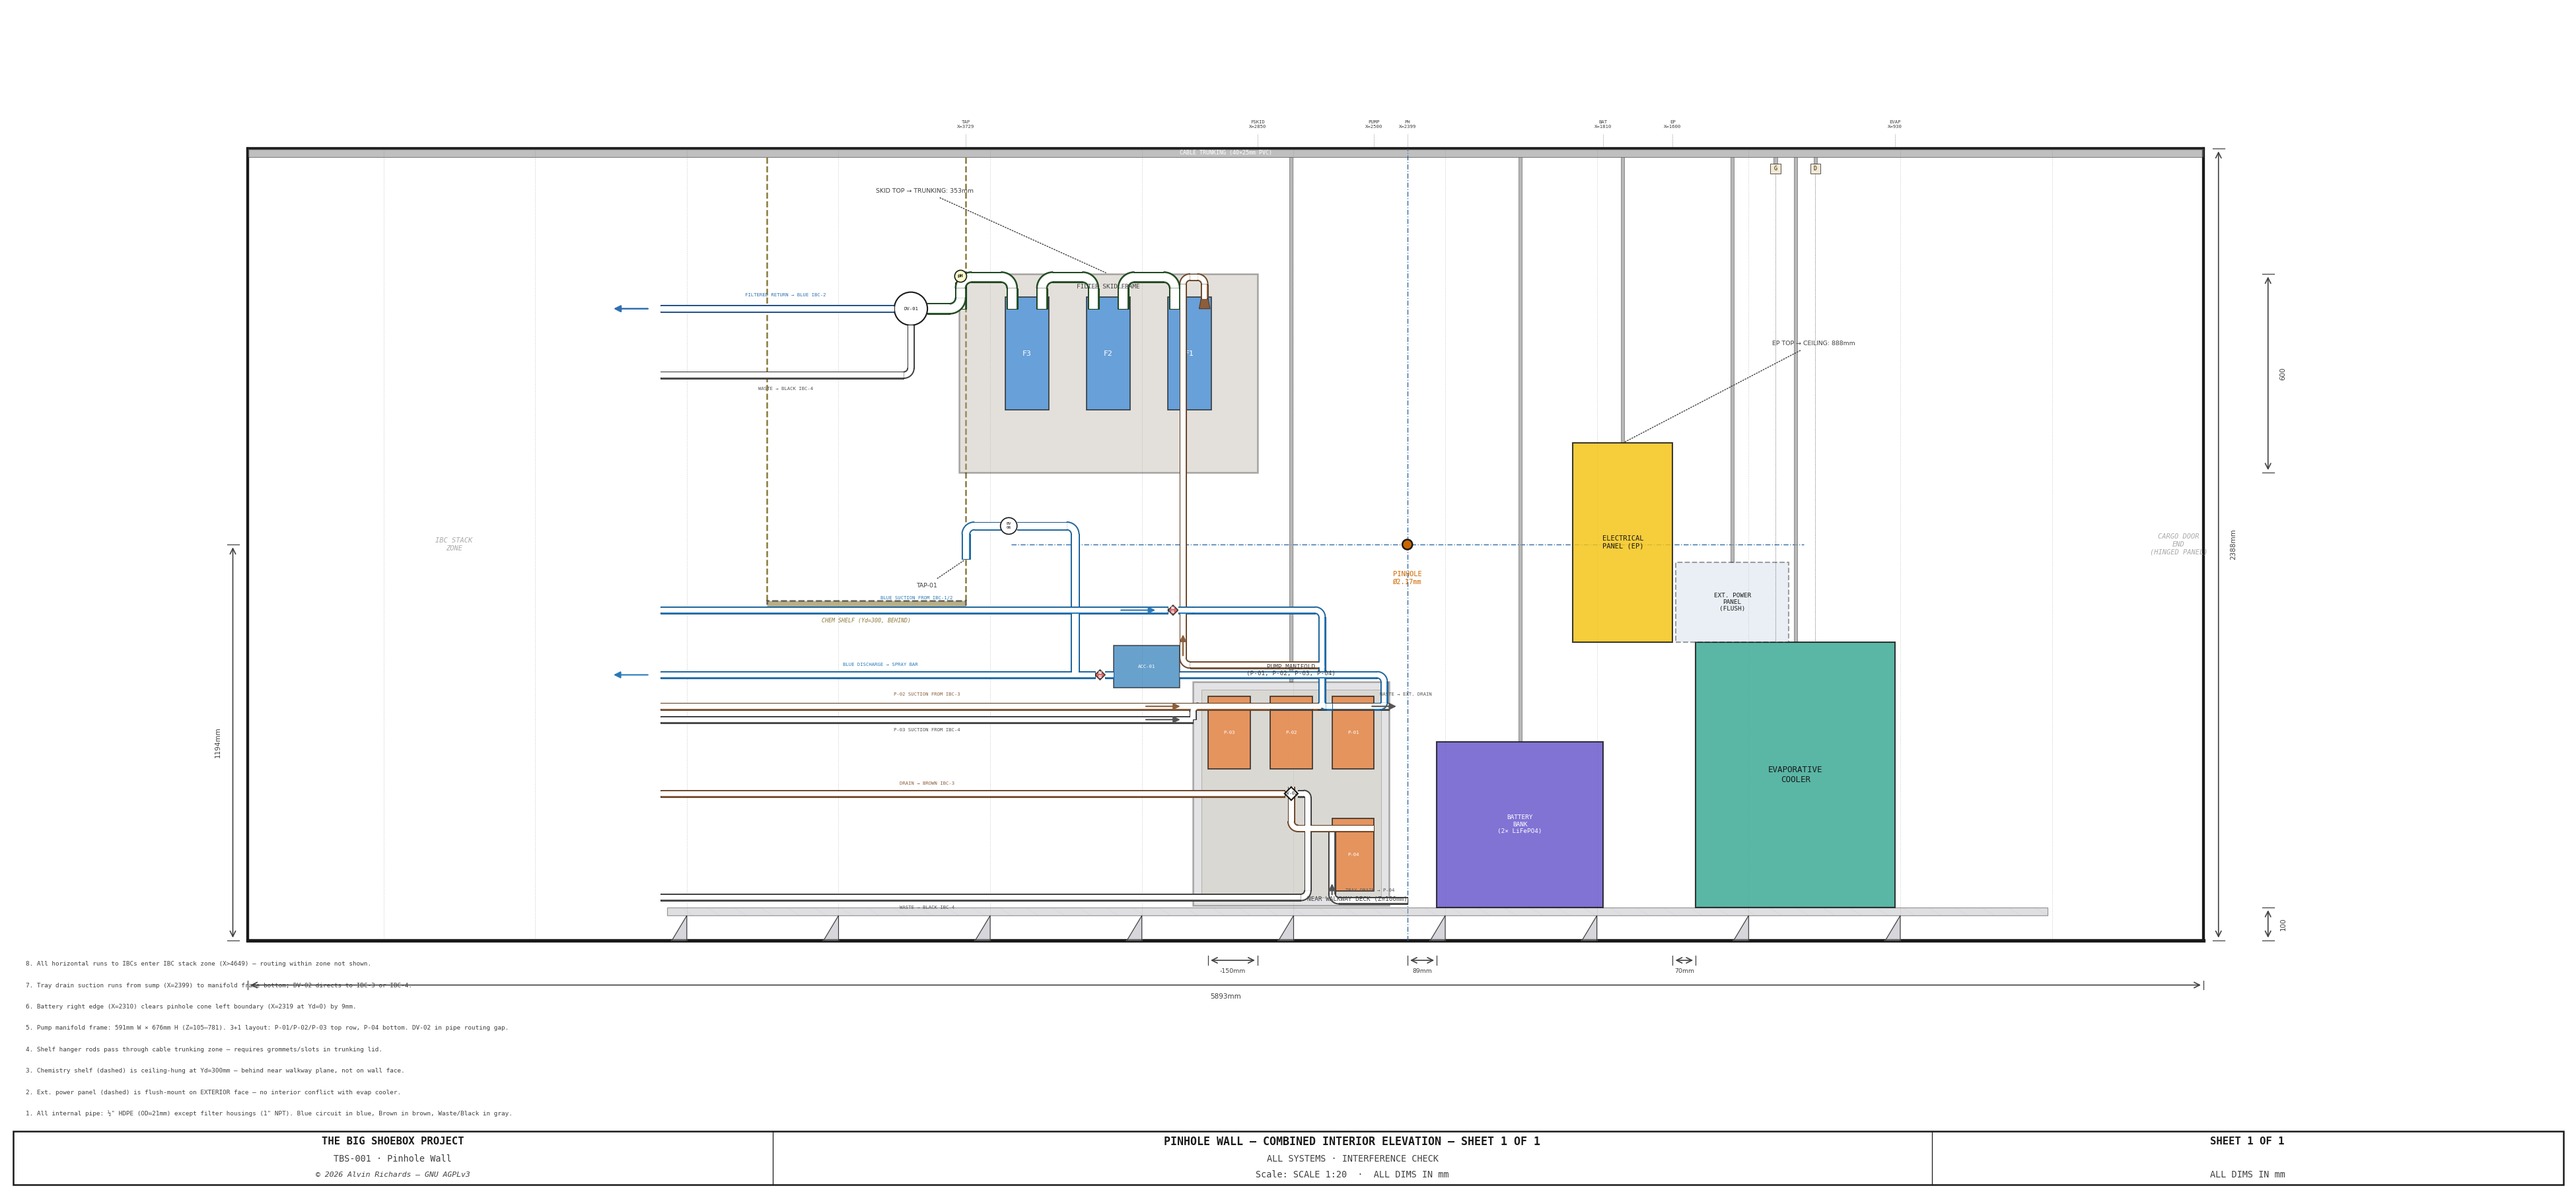
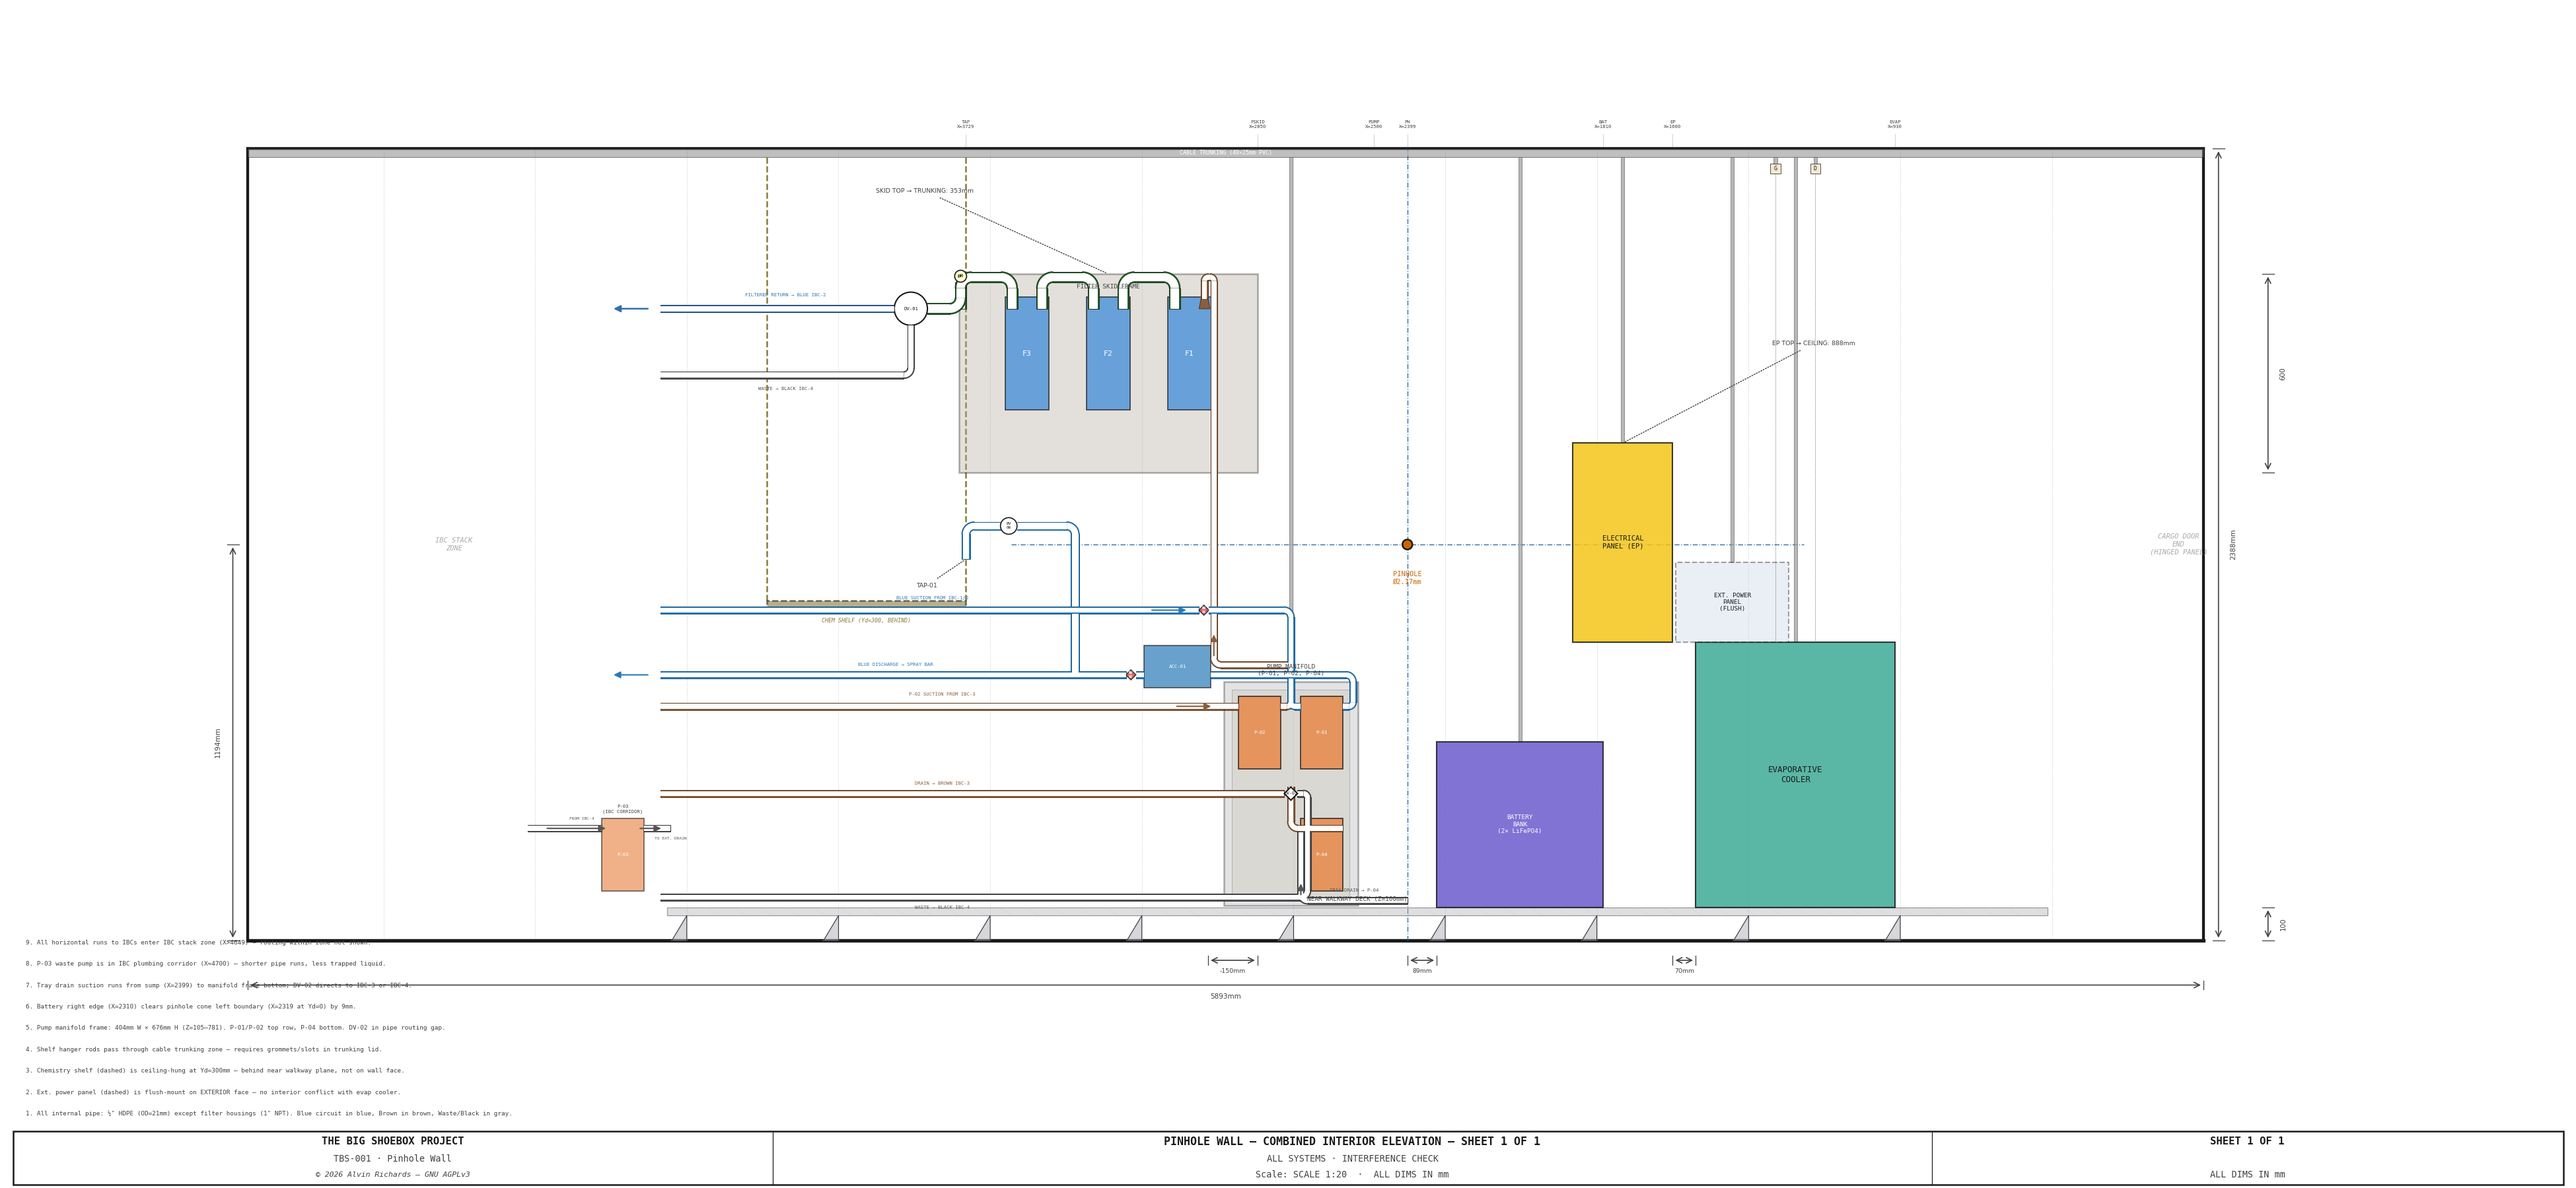
Move P-03 waste pump to IBC plumbing corridor
P-03 (waste evacuation, IBC-4 → external drain) relocated from the
pump manifold to the IBC corridor, matching the water system report.
Shorter pipe runs and less liquid trapped in lines.

Pump manifold shrinks from 3+1 (591mm wide) to 2+1 (404mm wide):
P-01/P-02 top row, P-04 bottom row, DV-02 in pipe routing gap.
P-03 shown as equipment block at IBC zone boundary with short
suction/discharge stubs.

Changed region(s): [[0.4344, 0.4978, 0.5585, 0.7778], [0.2172, 0.6844, 0.2792, 0.7467], [0.3413, 0.5911, 0.3723, 0.6222]]

diff --git a/generate_pinhole_wall_elevation.py b/generate_pinhole_wall_elevation.py
@@ -56,8 +56,9 @@ DV01_X = PH_TEST_X + 150             # 3895mm — diverter valve X
 DV01_R = 50                           # DV-01 body radius
 
 # ── Pump manifold frame constants ──
-# Layout: 3 pumps (P-01, P-02, P-03) side by side in top row,
+# Layout: P-01, P-02 side by side in top row,
 #         P-04 alone in bottom row, 150mm pipe routing gap between rows.
+# P-03 is in the IBC plumbing corridor (separate from manifold).
 PM_ANGLE = 25            # 25×25mm SHS frame member width
 PM_PUMP_W = 127          # Shurflo 2088 body width (mm), includes port threads
 PM_PUMP_H = 218          # Shurflo 2088 body height (mm)
@@ -65,21 +66,20 @@ PM_GAP_X = 60            # gap between pumps horizontally
 PM_MARGIN_X = 20         # margin from frame inner edge to pump body
 PM_MARGIN_Z = 20         # vertical margin inside frame
 PM_PIPE_GAP_Z = 150      # vertical gap between rows for pipe routing
-# Frame: 3 pumps wide, 2 rows + pipe routing gap tall
+# Frame: 2 pumps wide, 2 rows + pipe routing gap tall
 PM_FRAME_W = (2 * PM_ANGLE + 2 * PM_MARGIN_X
-              + 3 * PM_PUMP_W + 2 * PM_GAP_X)             # 591mm
+              + 2 * PM_PUMP_W + 1 * PM_GAP_X)             # 404mm
 PM_FRAME_X = PUMP_X + (PUMP_W - PM_FRAME_W) // 2          # centered (may extend past zone)
 PM_FRAME_Z_LO = 105      # just above walkway deck (Z=100)
 PM_FRAME_Z_HI = (PM_FRAME_Z_LO + 2 * PM_ANGLE
                  + 2 * PM_MARGIN_Z + 2 * PM_PUMP_H + PM_PIPE_GAP_Z)  # 781mm
 # Bottom row (P-04): starts at frame bottom + angle + margin
 PM_PUMP_Z_BOT = PM_FRAME_Z_LO + PM_ANGLE + PM_MARGIN_Z   # 150mm
-# Top row (P-01, P-02, P-03): above bottom row + pump height + pipe gap
+# Top row (P-01, P-02): above bottom row + pump height + pipe gap
 PM_PUMP_Z_TOP = PM_PUMP_Z_BOT + PM_PUMP_H + PM_PIPE_GAP_Z  # 518mm
-# Pump X positions — top row: 3 pumps side by side
+# Pump X positions — top row: 2 pumps side by side
 PM_P01_X = PM_FRAME_X + PM_ANGLE + PM_MARGIN_X            # left pump
-PM_P02_X = PM_P01_X + PM_PUMP_W + PM_GAP_X                # center pump
-PM_P03_X = PM_P02_X + PM_PUMP_W + PM_GAP_X                # right pump
+PM_P02_X = PM_P01_X + PM_PUMP_W + PM_GAP_X                # right pump
 PM_P04_X = PM_P01_X                                        # bottom row, left-aligned
 PM_PORT_OFF = 30         # port offset from top of pump body
 PM_PORT_Z_TOP = PM_PUMP_Z_TOP + PM_PUMP_H - PM_PORT_OFF   # port Z, top row pumps
@@ -95,6 +95,12 @@ PM_ACC_W = 200
 PM_ACC_H = 127
 PM_ACC_X = PM_FRAME_X + PM_FRAME_W + 40
 PM_ACC_Z = PM_HEADER_Z_BLUE_DISCH - PM_ACC_H // 2 + 25
+# ── P-03 in IBC plumbing corridor ──
+# P-03 (waste evacuation) is mounted in the IBC corridor, not on the pump manifold.
+# Shown at left edge of IBC zone in elevation (actual Yd ≈ 1,100).
+P03_IBC_X = ZONE_R_START + 50                             # 4699mm — just inside IBC zone
+P03_IBC_Z = WALKWAY_H + 50                                # 150mm — above walkway
+
 # Pipe colors for Blue and Brown circuits
 C_BLUE  = "#2979B8"      # Blue circuit pipe fill
 C_BLUE_EC = "#1A5A8A"    # Blue circuit pipe edge
@@ -418,7 +424,7 @@ ax.text(sx(PH_X), sz(PH_H - 80), "PINHOLE\nØ2.17mm",
         ha="center", va="top", fontsize=5, color=C_PINHOLE_EQ,
         zorder=10, **FONT)
 
-# ── Pump manifold (3+1 layout: P-01/P-02/P-03 top row, P-04 bottom) ────
+# ── Pump manifold (P-01/P-02 top row, P-04 bottom row) ────
 # Frame outline (25×25mm SHS perimeter)
 PM_FRAME_H = PM_FRAME_Z_HI - PM_FRAME_Z_LO
 equip_block(PM_FRAME_X, PM_FRAME_Z_LO, PM_FRAME_W, PM_FRAME_H,
@@ -429,11 +435,10 @@ equip_block(PM_FRAME_X + PM_ANGLE, PM_FRAME_Z_LO + PM_ANGLE,
             PM_FRAME_W - 2 * PM_ANGLE, PM_FRAME_H - 2 * PM_ANGLE,
             "", "#D4C8A0", lw=0.5, zorder=3, alpha=0.3)
 
-# 4 pump bodies: top row P-01/P-02/P-03 side by side, bottom row P-04
+# 3 pump bodies: top row P-01/P-02 side by side, bottom row P-04
 for (px, pz, plabel) in [
     (PM_P01_X, PM_PUMP_Z_TOP, "P-01"),
     (PM_P02_X, PM_PUMP_Z_TOP, "P-02"),
-    (PM_P03_X, PM_PUMP_Z_TOP, "P-03"),
     (PM_P04_X, PM_PUMP_Z_BOT, "P-04"),
 ]:
     equip_block(px, pz, PM_PUMP_W, PM_PUMP_H,
@@ -442,8 +447,16 @@ for (px, pz, plabel) in [
 
 # Frame label
 ax.text(sx(PM_FRAME_X + PM_FRAME_W / 2), sz(PM_FRAME_Z_HI + 15),
-        "PUMP MANIFOLD\n(P-01, P-02, P-03, P-04)", ha="center", va="bottom",
+        "PUMP MANIFOLD\n(P-01, P-02, P-04)", ha="center", va="bottom",
         fontsize=4.5, color=C_DIM, zorder=10, **FONT)
+
+# ── P-03 in IBC corridor ────
+equip_block(P03_IBC_X, P03_IBC_Z, PM_PUMP_W, PM_PUMP_H,
+            "P-03", C_PUMP, lw=0.8, zorder=6, alpha=0.65,
+            label_fs=3.5, label_color="white")
+ax.text(sx(P03_IBC_X + PM_PUMP_W / 2), sz(P03_IBC_Z + PM_PUMP_H + 15),
+        "P-03\n(IBC CORRIDOR)", ha="center", va="bottom",
+        fontsize=3.5, color=C_DIM, zorder=10, **FONT)
 
 # ACC-01 accumulator (blue rectangle, right of frame)
 equip_block(PM_ACC_X, PM_ACC_Z, PM_ACC_W, PM_ACC_H,
@@ -545,8 +558,10 @@ p01_in_x  = PM_P01_X + PM_PUMP_W;  p01_out_x = PM_P01_X
 p01_port_z = PM_PORT_Z_TOP
 p02_in_x  = PM_P02_X + PM_PUMP_W;  p02_out_x = PM_P02_X
 p02_port_z = PM_PORT_Z_TOP
-p03_in_x  = PM_P03_X + PM_PUMP_W;  p03_out_x = PM_P03_X
-p03_port_z = PM_PORT_Z_TOP
+# P-03 in IBC corridor
+p03_in_x  = P03_IBC_X + PM_PUMP_W;  p03_out_x = P03_IBC_X
+p03_port_z = P03_IBC_Z + PM_PUMP_H - PM_PORT_OFF
+# P-04 bottom row of manifold
 p04_in_x  = PM_P04_X + PM_PUMP_W;  p04_out_x = PM_P04_X
 p04_port_z = PM_PUMP_Z_BOT + PM_PUMP_H - PM_PORT_OFF
 
@@ -686,38 +701,32 @@ ax.annotate("", xy=(sx(RISER_X), sz(RISER_ENTRY_Z + 100)),
             arrowprops=dict(arrowstyle="-|>", color=C_BROWN, lw=1.0), zorder=10)
 
 # ════════════════════════════════════════════════════════════════════════════
-# P-03 WASTE EVACUATION: IBC-4 → P-03 → external drain port
+# P-03 WASTE EVACUATION (IBC CORRIDOR): IBC-4 → P-03 → external drain port
 # ════════════════════════════════════════════════════════════════════════════
-# Suction: IBC-4 (Black) → into frame → P-03 IN
-# Offset 40mm below P-02 Brown suction to avoid overlap (both top-row pumps)
-P03_SUC_Z = p03_port_z - 40  # external run Z, below Brown suction at p02_port_z
+# P-03 is in the IBC corridor — short suction from IBC-4 and short discharge
+# to external drain.  Only the stubs entering the IBC zone are shown.
+# Suction: IBC-4 → P-03 IN (short run within IBC zone)
 draw_pipe_path(ax,
-    [IBC_PIPE_EXIT_X, PM_FRAME_R],
-    [P03_SUC_Z, P03_SUC_Z],
-    OD_H, WALL_H, fc=C_BLACK_SYS, ec=C_BLACK_EC, bore_fc="white", zorder=Z_BLACK)
-ax.annotate("", xy=(sx(PM_FRAME_R + 30), sz(P03_SUC_Z)),
-            xytext=(sx(PM_FRAME_R + 150), sz(P03_SUC_Z)),
-            arrowprops=dict(arrowstyle="-|>", color=C_BLACK_SYS, lw=1.0), zorder=10)
-ax.text(sx((IBC_PIPE_EXIT_X + PM_FRAME_R) / 2), sz(P03_SUC_Z - 25),
-        "P-03 SUCTION FROM IBC-4", ha="center", va="top",
-        fontsize=3.5, color=C_BLACK_SYS, zorder=10, **FONT)
-# 1/2": frame edge → jog up to port Z → P-03 IN
-draw_pipe_path(ax,
-    [PM_FRAME_R, PM_FRAME_R, p03_in_x],
-    [P03_SUC_Z, p03_port_z, p03_port_z],
-    OD_H, WALL_H, fc=C_BLACK_SYS, ec=C_BLACK_EC, bore_fc="white", zorder=Z_BLACK)
-
-# P-03 OUT → left (toward cargo door) → external drain
-draw_pipe_path(ax,
-    [p03_out_x, PM_FRAME_X],
+    [IBC_PIPE_EXIT_X + 400, p03_in_x],
     [p03_port_z, p03_port_z],
     OD_H, WALL_H, fc=C_BLACK_SYS, ec=C_BLACK_EC, bore_fc="white", zorder=Z_BLACK)
-ax.annotate("", xy=(sx(PM_FRAME_X - 30), sz(p03_port_z)),
-            xytext=(sx(PM_FRAME_X + 60), sz(p03_port_z)),
+ax.annotate("", xy=(sx(p03_in_x - 20), sz(p03_port_z)),
+            xytext=(sx(IBC_PIPE_EXIT_X + 350), sz(p03_port_z)),
             arrowprops=dict(arrowstyle="-|>", color=C_BLACK_SYS, lw=1.0), zorder=10)
-ax.text(sx(PM_FRAME_X - 50), sz(p03_port_z + 30),
-        "WASTE → EXT. DRAIN", ha="center", va="bottom",
-        fontsize=3.5, color=C_BLACK_SYS, zorder=10, **FONT)
+ax.text(sx(p03_in_x + 60), sz(p03_port_z + 25),
+        "FROM IBC-4", ha="center", va="bottom",
+        fontsize=3.0, color=C_BLACK_SYS, zorder=10, **FONT)
+# Discharge: P-03 OUT → external drain (short run, exits container)
+draw_pipe_path(ax,
+    [p03_out_x, P03_IBC_X - 80],
+    [p03_port_z, p03_port_z],
+    OD_H, WALL_H, fc=C_BLACK_SYS, ec=C_BLACK_EC, bore_fc="white", zorder=Z_BLACK)
+ax.annotate("", xy=(sx(P03_IBC_X - 60), sz(p03_port_z)),
+            xytext=(sx(p03_out_x + 20), sz(p03_port_z)),
+            arrowprops=dict(arrowstyle="-|>", color=C_BLACK_SYS, lw=1.0), zorder=10)
+ax.text(sx(P03_IBC_X - 80), sz(p03_port_z - 25),
+        "TO EXT. DRAIN", ha="center", va="top",
+        fontsize=3.0, color=C_BLACK_SYS, zorder=10, **FONT)
 
 # ════════════════════════════════════════════════════════════════════════════
 # P-04 TRAY DRAIN: sump → P-04 → DV-02 → IBC-3 / IBC-4
@@ -962,10 +971,11 @@ notes = [
     "2. Ext. power panel (dashed) is flush-mount on EXTERIOR face — no interior conflict with evap cooler.",
     "3. Chemistry shelf (dashed) is ceiling-hung at Yd=300mm — behind near walkway plane, not on wall face.",
     "4. Shelf hanger rods pass through cable trunking zone — requires grommets/slots in trunking lid.",
-    "5. Pump manifold frame: 591mm W × 676mm H (Z=105–781). 3+1 layout: P-01/P-02/P-03 top row, P-04 bottom. DV-02 in pipe routing gap.",
+    "5. Pump manifold frame: 404mm W × 676mm H (Z=105–781). P-01/P-02 top row, P-04 bottom. DV-02 in pipe routing gap.",
     "6. Battery right edge (X=2310) clears pinhole cone left boundary (X=2319 at Yd=0) by 9mm.",
     "7. Tray drain suction runs from sump (X=2399) to manifold frame bottom; DV-02 directs to IBC-3 or IBC-4.",
-    "8. All horizontal runs to IBCs enter IBC stack zone (X>4649) — routing within zone not shown.",
+    "8. P-03 waste pump is in IBC plumbing corridor (X≈4700) — shorter pipe runs, less trapped liquid.",
+    "9. All horizontal runs to IBCs enter IBC stack zone (X>4649) — routing within zone not shown.",
 ]
 note_y = 0.06
 for i, note in enumerate(notes):
